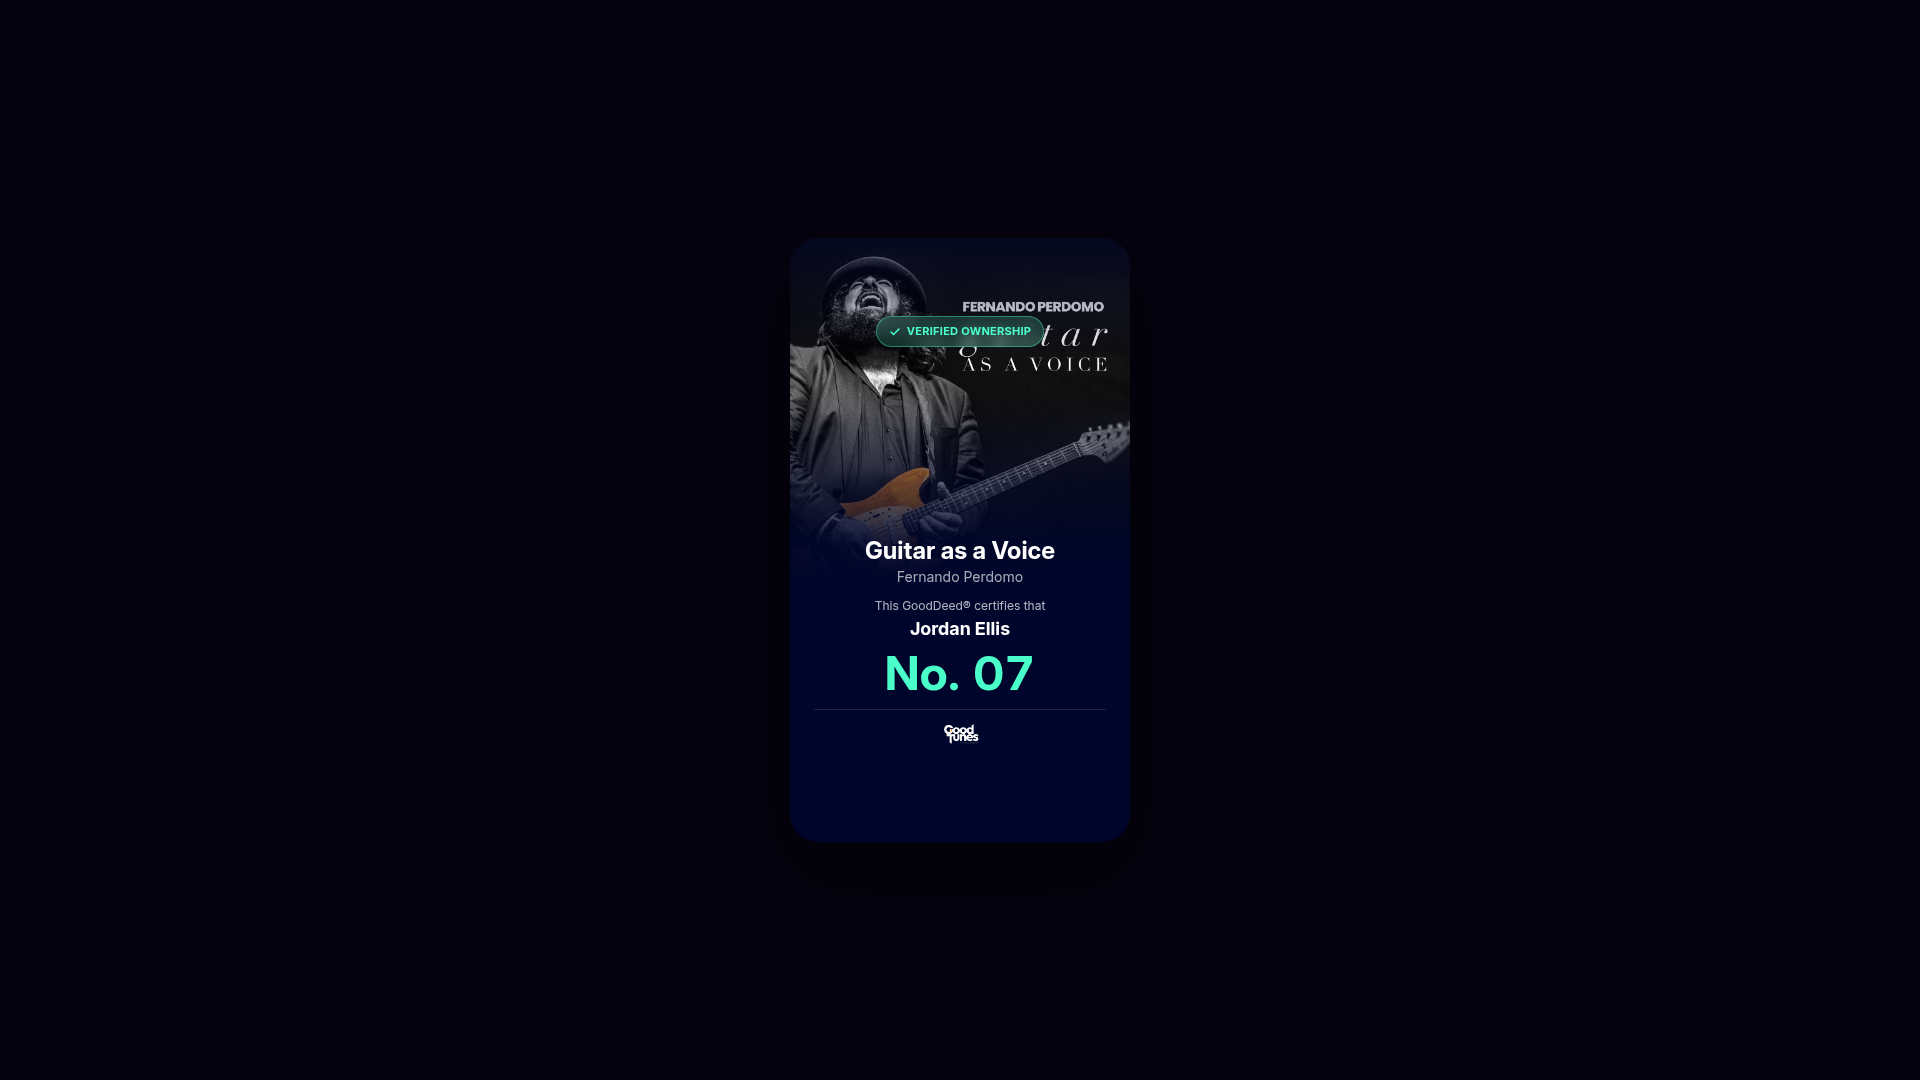
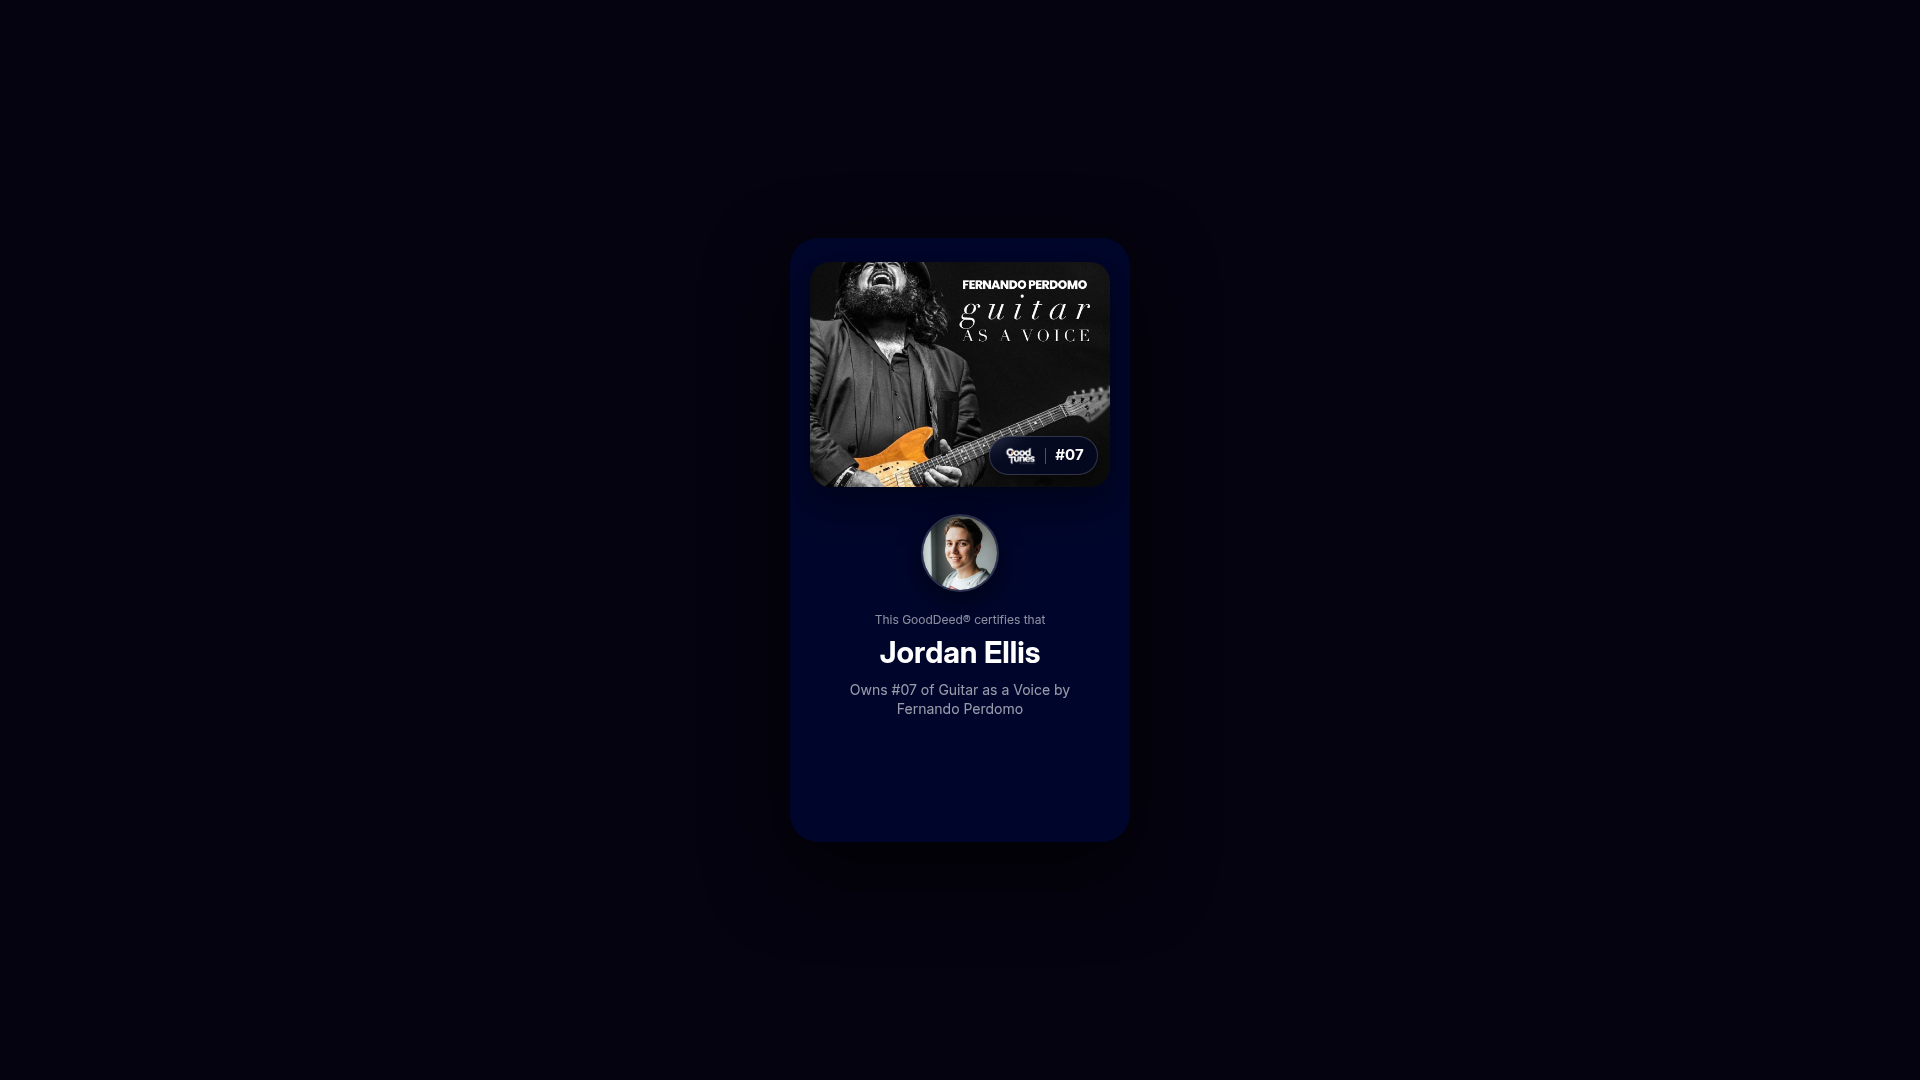
Update card design to feature prominent album art and owner details
Refactors `Stories.tsx` to implement a new card layout with rounded album art, an integrated chip, and owner information, adhering to Instagram safe zone constraints.

Replit-Commit-Author: Agent
Replit-Commit-Session-Id: 05c2a2e8-5b06-4806-a9d5-d257ed0dfe21
Replit-Commit-Checkpoint-Type: full_checkpoint
Replit-Commit-Event-Id: c494d39f-9133-4e9b-82f7-abdea4b7595f
Replit-Commit-Screenshot-Url: https://storage.googleapis.com/screenshot-production-us-central1/5293185b-8e25-4d4f-b8b2-dc5494b9adc6/05c2a2e8-5b06-4806-a9d5-d257ed0dfe21/XgYiwbC
Replit-Helium-Checkpoint-Created: true

Changed region(s): [[0.4062, 0.2139, 0.5938, 0.7028]]

diff --git a/artifacts/mockup-sandbox/src/components/mockups/gooddeed-cert/Stories.tsx b/artifacts/mockup-sandbox/src/components/mockups/gooddeed-cert/Stories.tsx
@@ -1,21 +1,28 @@
 // PROPOSED design: an Instagram-Stories-shaped (9:16) version of the fan
-// GoodDeed card, sized to fill a phone story / 1080x1920 export. FULL-BLEED
-// treatment — the album art runs the entire width edge-to-edge as a top hero,
-// bleeding up under the verified pill, then fades into brand navy for the
-// ownership statement + serial below.
+// GoodDeed card, sized to fill a phone story / 1080x1920 export.
+//
+// ART DIRECTION (Bill-approved): a floating, rounded album-art hero near the top
+// with a single baked [GoodTunes | #NN] chip in its bottom-right corner — the
+// SAME chip locked into the messaging-app link preview (#6 / OgNativeChip), so
+// the share set matches. Below the art: the owner's avatar, then a clean
+// certificate statement ("This GoodDeed® certifies that / <Owner> / Owns #NN of
+// <Album> by <Artist>"). The brand mark lives in the chip, so there's no
+// separate verified pill or footer logo.
 //
 // IG SAFE ZONE: Instagram overlays its own chrome on the top (~13%) and bottom
-// (~16%) of every story. All real *content* (pill, text, serial, logo) is
-// confined to the center safe band so nothing important is ever covered by IG's
-// profile row / reply bar. The art itself is allowed to bleed into the top band
-// (it's decorative there — IG's profile row sits over it). `StoryCard` is the
-// single source of truth for the card; the safe-zone study (StoriesSafeZone.tsx)
-// renders this same card with IG chrome drawn on top, so the two never drift.
+// (~16%) of every story. The certificate content (avatar + text) stays inside the
+// center safe band so nothing important is ever covered by IG's profile row /
+// reply bar. The art is allowed to bleed slightly into the top band (decorative —
+// IG's profile row sits over its top edge), while the chip sits low enough on the
+// art to stay clear. `StoryCard` is the single source of truth for the card; the
+// safe-zone study (StoriesSafeZone.tsx) renders this same card with IG chrome
+// drawn on top, so the two never drift.
 import type { ReactNode } from "react";
 import "./_group.css";
 
 const LOGO = "/__mockup/images/goodtunes-logo-white.png";
 const ART = "/__mockup/images/album-guitar-as-a-voice.png";
+const OWNER_PHOTO = "/__mockup/images/sample-owner-photo.png";
 
 const album = { title: "Guitar as a Voice", artist: "Fernando Perdomo" };
 const ownerName = "Jordan Ellis";
@@ -37,72 +44,68 @@ export function StoryCard({ overlay }: { overlay?: ReactNode }) {
         backgroundColor: "var(--brand-bg)",
       }}
     >
-      {/* FULL-BLEED album art — spans the entire width as a top hero, bleeding
-          to the top edge (and up under the IG profile band). */}
-      <div className="absolute top-0 left-0 right-0" style={{ aspectRatio: "1 / 1" }}>
-        <img src={ART} alt={album.title} className="w-full h-full object-cover block" />
-        {/* fade the bottom of the art into brand navy so text below is seamless */}
-        <div
-          className="absolute inset-0"
-          style={{
-            background:
-              "linear-gradient(180deg, rgba(0,6,43,0) 45%, rgba(0,6,43,0.55) 72%, rgba(0,6,43,0.92) 90%, var(--brand-bg) 100%)",
-          }}
-        />
-        {/* slim top scrim so the verified pill stays legible over bright art */}
-        <div
-          className="absolute top-0 inset-x-0"
-          style={{ height: "38%", background: "linear-gradient(180deg, rgba(0,6,43,0.6) 0%, rgba(0,6,43,0) 100%)" }}
-        />
-      </div>
-
-      {/* Foreground content — confined to the IG safe center band */}
+      {/* Content column — art hero near the top, certificate block below, all
+          held clear of the IG bottom reply bar. */}
       <div
-        className="absolute left-0 right-0 flex flex-col px-6"
-        style={{ top: TOP_SAFE, bottom: BOTTOM_SAFE }}
+        className="absolute inset-x-0 flex flex-col px-5"
+        style={{ top: "4%", bottom: BOTTOM_SAFE }}
       >
-        {/* Verified pill, over the art */}
-        <div className="flex justify-center">
+        {/* Album-art hero — floating rounded card with the baked brand chip */}
+        <div
+          className="relative w-full shrink-0 overflow-hidden"
+          style={{ aspectRatio: "4 / 3", borderRadius: 20, boxShadow: "0 14px 40px rgba(0,0,0,0.45)" }}
+        >
+          <img src={ART} alt={album.title} className="w-full h-full object-cover block" />
+          {/* Baked [GoodTunes | #NN] chip — matches the locked link-preview chip */}
           <div
-            className="flex items-center gap-1.5 rounded-full px-3 py-1.5 backdrop-blur-sm"
-            style={{ background: "rgba(74,255,202,0.16)", border: "1px solid rgba(74,255,202,0.4)" }}
+            className="absolute flex items-center"
+            style={{
+              right: 12,
+              bottom: 12,
+              gap: 9,
+              padding: "7px 13px",
+              borderRadius: 999,
+              background: "rgba(0,6,43,0.62)",
+              backdropFilter: "blur(8px)",
+              WebkitBackdropFilter: "blur(8px)",
+              border: "1px solid rgba(255,255,255,0.18)",
+              boxShadow: "0 4px 14px rgba(0,0,0,0.45)",
+            }}
           >
-            <svg width="12" height="12" viewBox="0 0 24 24" fill="none" stroke="var(--brand-mint)" strokeWidth="3" strokeLinecap="round">
-              <path d="M20 6L9 17l-5-5" />
-            </svg>
-            <span className="text-[11px] font-bold tracking-wide" style={{ color: "var(--brand-mint)" }}>
-              VERIFIED OWNERSHIP
+            <img src={LOGO} alt="GoodTunes" style={{ height: 20, width: "auto", display: "block" }} />
+            <span style={{ width: 1, height: 16, background: "rgba(255,255,255,0.3)" }} />
+            <span className="font-bold text-white" style={{ fontSize: 15, letterSpacing: 0.2 }}>
+              #{certNumStr}
             </span>
           </div>
         </div>
 
-        {/* spacer — pushes the text zone down below the art hero */}
-        <div className="flex-1 min-h-0" />
-
-        {/* Title + artist */}
-        <div className="text-center shrink-0">
-          <p className="text-white text-2xl font-bold leading-tight">{album.title}</p>
-          <p className="text-white/65 text-sm leading-tight mt-0.5">{album.artist}</p>
-        </div>
-
-        {/* Ownership statement + serial */}
-        <div className="flex flex-col items-center text-center gap-1 shrink-0 mt-3">
-          <p className="text-white/70 text-xs leading-snug">This GoodDeed® certifies that</p>
-          <p className="text-white text-lg font-bold leading-tight">{ownerName}</p>
-          <p
-            className="font-bold leading-none mt-1"
-            style={{ fontVariantNumeric: "tabular-nums", fontSize: "48px", color: "var(--brand-mint)" }}
+        {/* Certificate block — avatar + ownership statement, centered in the
+            remaining safe band */}
+        <div className="flex-1 min-h-0 flex flex-col items-center justify-center text-center">
+          {/* Owner avatar */}
+          <div
+            className="rounded-full overflow-hidden shrink-0"
+            style={{
+              width: 78,
+              height: 78,
+              border: "2px solid rgba(255,255,255,0.18)",
+              boxShadow: "0 8px 24px rgba(0,0,0,0.5)",
+            }}
           >
-            No. {certNumStr}
-          </p>
-        </div>
+            <img src={OWNER_PHOTO} alt={ownerName} className="w-full h-full object-cover block" />
+          </div>
 
-        {/* Footer mark */}
-        <div
-          className="flex items-center justify-center mt-3 pt-3 shrink-0"
-          style={{ borderTop: "1px solid rgba(255,255,255,0.12)" }}
-        >
-          <img src={LOGO} alt="GoodTunes" className="h-6 w-auto object-contain" />
+          <p className="text-white/55 text-xs leading-snug mt-5">This GoodDeed® certifies that</p>
+          <p className="text-white font-bold leading-tight mt-1.5" style={{ fontSize: 30 }}>
+            {ownerName}
+          </p>
+          <p
+            className="text-white/60 text-sm leading-snug mt-2"
+            style={{ maxWidth: "15rem" }}
+          >
+            Owns #{certNumStr} of {album.title} by {album.artist}
+          </p>
         </div>
       </div>
 
